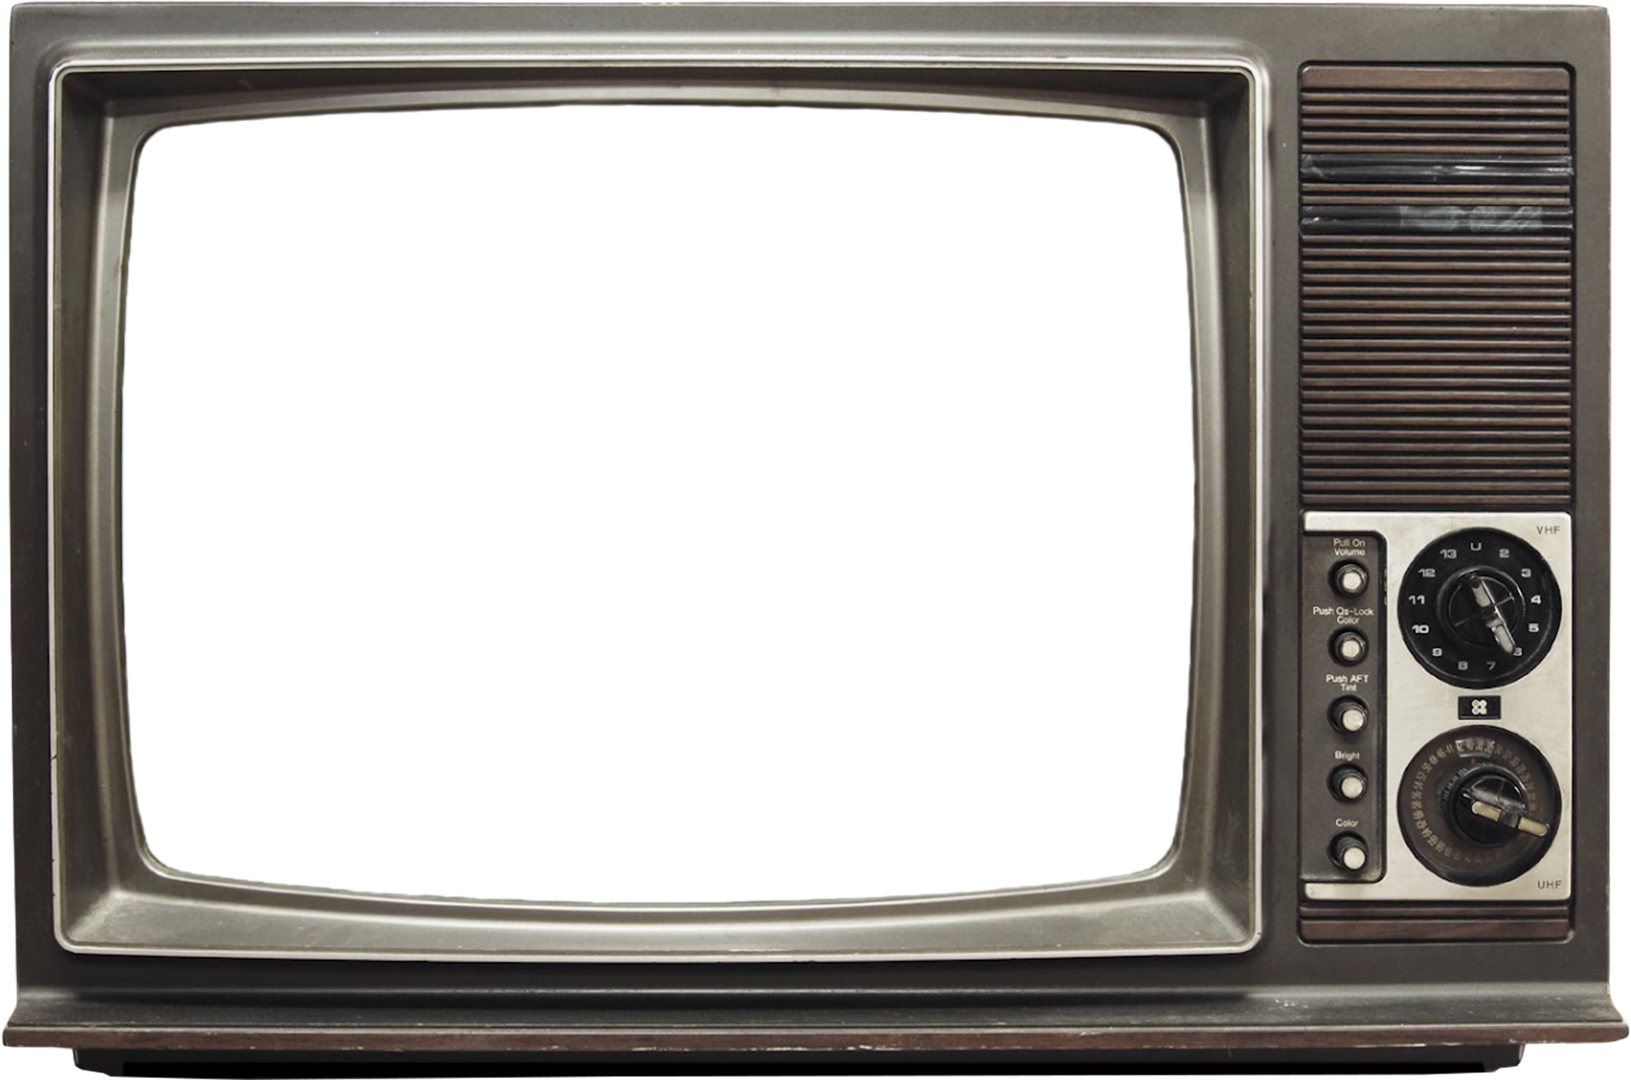
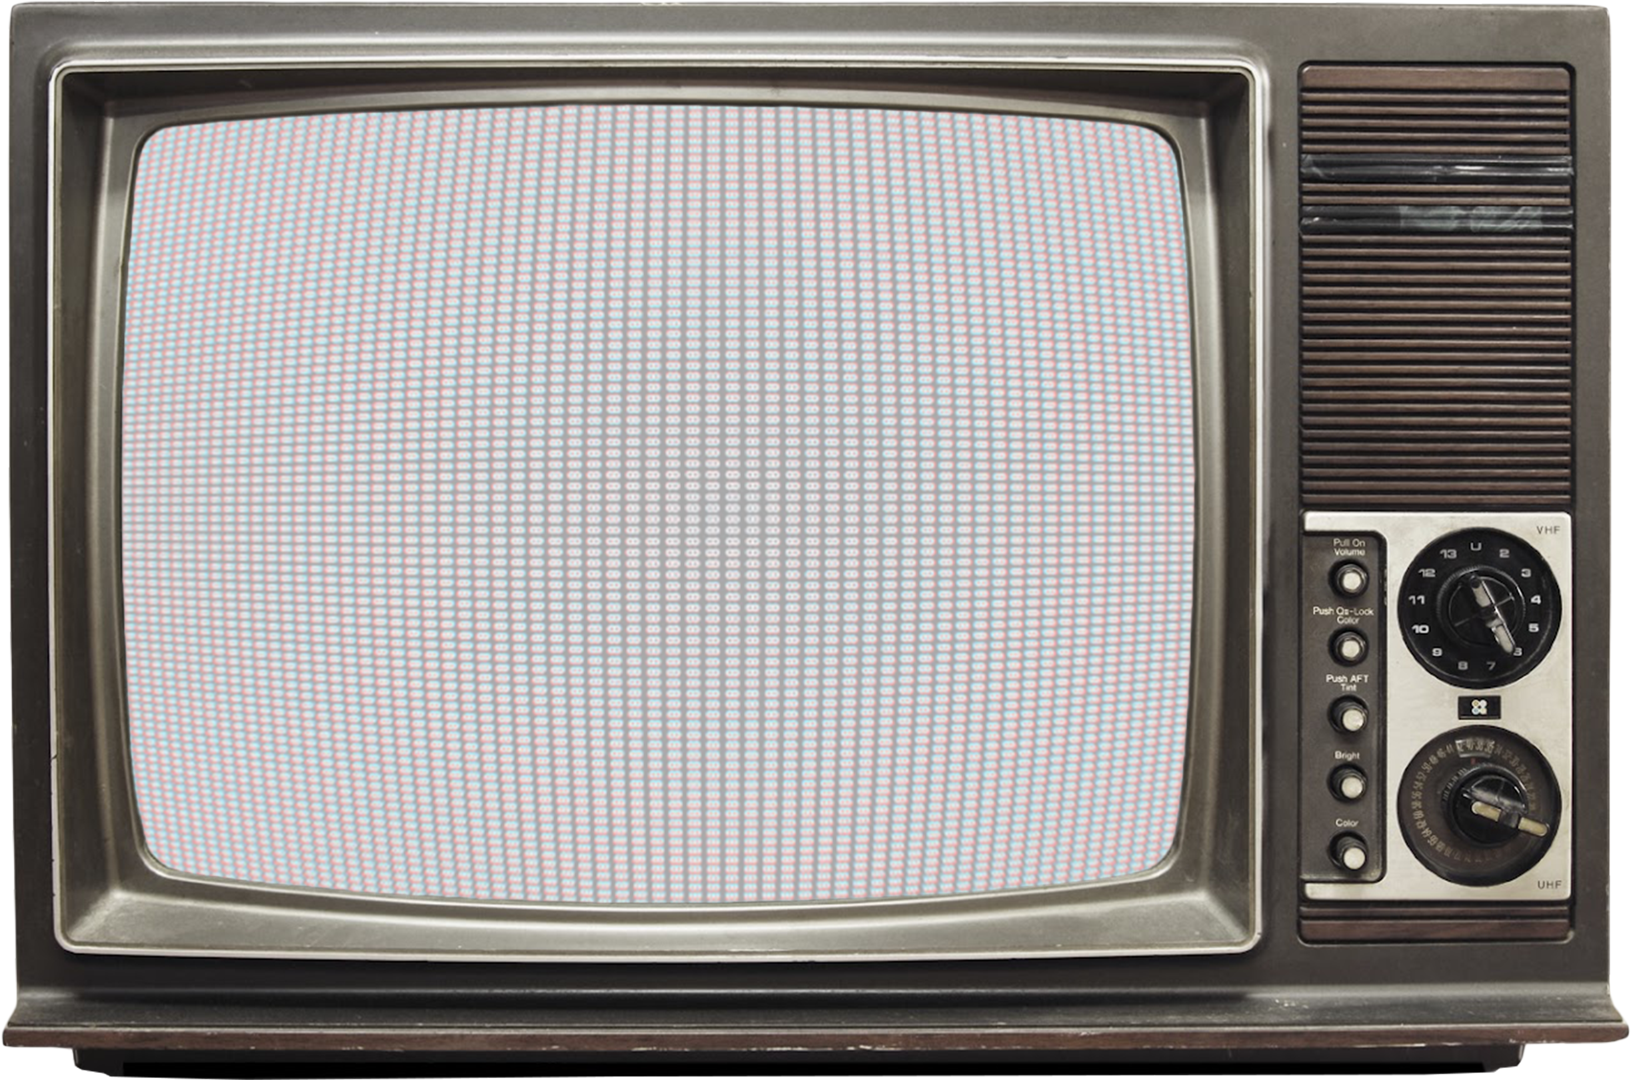
Adjusted tv further

diff --git a/client/src/pages/host/prompt/Question.js b/client/src/pages/host/prompt/Question.js
@@ -1,7 +1,7 @@
 const Question = ({ question }) => {
 	return (
-		<div className="flex flex-col">
-			<p className="text-xl font-bold">{question.question}</p>
+		<div className="flex flex-col opacity-80">
+			<p className="text-2xl font-bold">{question.question}</p>
 			{question.image !== null && <div>{question.image}</div>}
 		</div>
 	);

diff --git a/client/src/shared/TVContainer.js b/client/src/shared/TVContainer.js
@@ -6,8 +6,7 @@ const TVContainer = ({ children }) => {
 			<img
 				src={tv}
 				alt="crtTV"
-				className="z-2 relative mix-blend-difference"
-				width="1300"
+				className="z-2 relative bg-black mix-blend-difference"
 			/>
 			<div className="relative bottom-1/2 w-8/12 pl-16">{children}</div>
 		</div>
